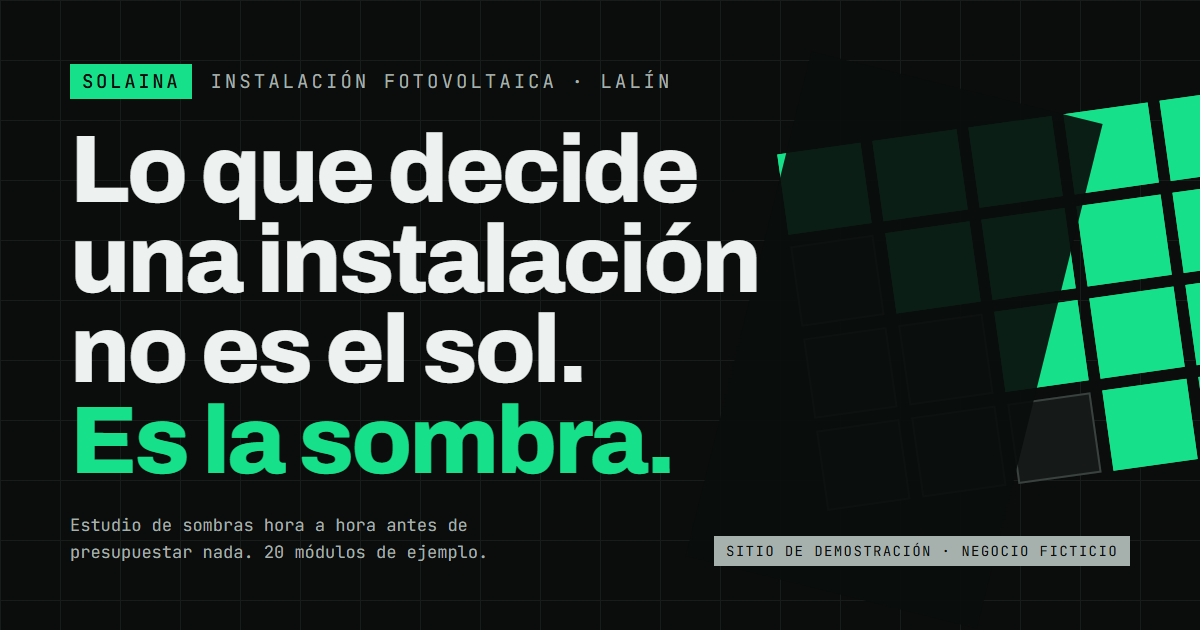
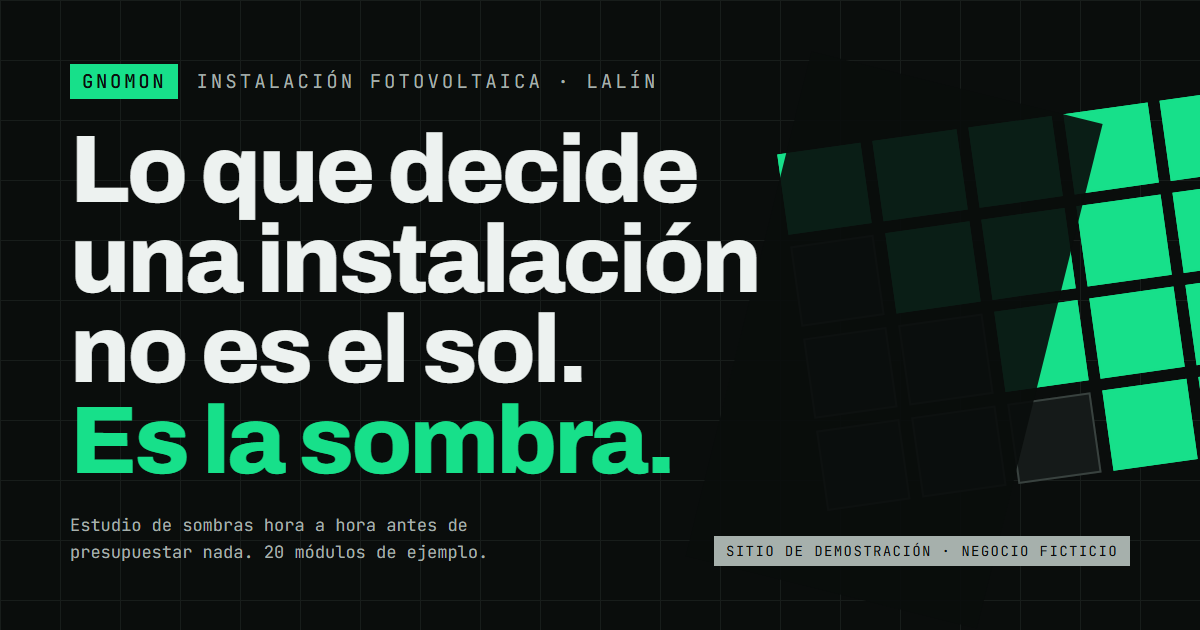
El negocio ficticio pasa a llamarse GNOMON: SOLAINA chocaba con negocios reales
La comprobacion del nombre en la web devolvia un bar «A Solaina» en el propio
Lalin y varias sociedades registradas con ese nombre en Galicia. Aunque ninguna
sea instaladora, un nombre que existe en la misma localidad no cumple la regla
de negocio inequivocamente inventado.

GNOMON no aparece en el sector en Espana y ademas dice el concepto: el gnomon es
la varilla del reloj de sol, la pieza que da la sombra. Se anade esa nota en la
seccion 01.

De paso, el texto de la casilla del formulario va dentro de un <span>: en un
contenedor flex cada trozo de texto suelto es otro item y se le aplicaba el
gap, asi que se leia «aviso legal .».

axe-core: sigue sin violaciones.

Changed region(s): [[0.0617, 0.0905, 0.4625, 0.1508], [0.4933, 0.1206, 0.555, 0.1508]]

diff --git a/index.html b/index.html
@@ -1,7 +1,7 @@
 <!DOCTYPE html>
 <!--
   ============================================================================
-  SITIO DE DEMOSTRACIÓN. SOLAINA es una empresa de instalación fotovoltaica
+  SITIO DE DEMOSTRACIÓN. GNOMON es una empresa de instalación fotovoltaica
   FICTICIA. Nombre, dirección, teléfono, horarios, precios, casos de ejemplo y
   equipo son datos de muestra inventados para enseñar la plantilla. No
   corresponden a ninguna empresa real ni a ninguna instalación real.
@@ -12,12 +12,12 @@
 <head>
 <meta charset="utf-8">
 <meta name="viewport" content="width=device-width, initial-scale=1">
-<title>SOLAINA · Instaladores fotovoltaicos en Lalín (demo)</title>
+<title>GNOMON · Instaladores fotovoltaicos en Lalín (demo)</title>
 <meta name="description" content="Plantilla de demostración de una empresa de instalación fotovoltaica ficticia: estudio de sombras, equipos, papeles y casos de ejemplo. Todos los datos son de muestra.">
 <meta name="robots" content="noindex, nofollow">
 <meta name="theme-color" content="#0A0D0C">
 <meta property="og:type" content="website">
-<meta property="og:title" content="SOLAINA · Instaladores fotovoltaicos (sitio de demostración)">
+<meta property="og:title" content="GNOMON · Instaladores fotovoltaicos (sitio de demostración)">
 <meta property="og:description" content="Negocio ficticio. Lo que decide una instalación no es el sol: es la sombra.">
 <meta property="og:image" content="assets/og.png">
 <meta property="og:image:width" content="1200">
@@ -34,7 +34,7 @@
 {
   "@context": "https://schema.org",
   "@type": "HomeAndConstructionBusiness",
-  "name": "SOLAINA",
+  "name": "GNOMON",
   "description": "Empresa de instalación fotovoltaica ficticia usada como plantilla de demostración.",
   "address": {
     "@type": "PostalAddress",
@@ -45,7 +45,7 @@
     "addressCountry": "ES"
   },
   "telephone": "+34986000000",
-  "email": "hola@solaina.example",
+  "email": "hola@gnomon.example",
   "priceRange": "€€",
   "openingHoursSpecification": [
     { "@type": "OpeningHoursSpecification", "dayOfWeek": ["Monday","Tuesday","Wednesday","Thursday","Friday"], "opens": "08:30", "closes": "18:30" }
@@ -60,9 +60,9 @@
 <div class="cursor" id="cursor" aria-hidden="true"><span class="cursor-punto"></span><span class="cursor-texto" id="cursor-texto"></span></div>
 
 <header class="cabecera" id="cabecera">
-  <a class="marca" href="#inicio" aria-label="SOLAINA, inicio">
+  <a class="marca" href="#inicio" aria-label="GNOMON, inicio">
     <img src="assets/logo.svg" width="52" height="52" alt="" class="marca-mark">
-    <span class="marca-texto">SOLAINA<em>instalación fotovoltaica · Lalín</em></span>
+    <span class="marca-texto">GNOMON<em>instalación fotovoltaica · Lalín</em></span>
   </a>
 
   <nav class="nav" id="nav" aria-label="Principal">
@@ -141,6 +141,8 @@
       <p class="parrafo">Este es el estudio que hacemos antes de dar un solo número: el sol recorre el día,
         la sombra de la chimenea y del árbol barre el tejado, y se apunta qué paneles quedan tapados y a
         qué hora. Baja y pasa el día.</p>
+      <p class="parrafo parrafo--nota">De ahí el nombre: el <b>gnomon</b> es la varilla de un reloj de sol,
+        la pieza que no da luz —da sombra— y sin la cual el reloj no marca nada.</p>
     </div>
 
     <div class="sombra-escena" id="sombra-escena">
@@ -397,7 +399,7 @@
         aparte si hacen falta.</p>
     </div>
     <table class="tabla">
-      <caption class="visual-oculto">Precios orientativos de muestra de la empresa ficticia SOLAINA</caption>
+      <caption class="visual-oculto">Precios orientativos de muestra de la empresa ficticia GNOMON</caption>
       <thead>
         <tr><th scope="col">Instalación</th><th scope="col">Qué incluye</th><th scope="col">Desde</th></tr>
       </thead>
@@ -490,7 +492,10 @@
           <label for="f-mensaje">Cuéntanos cómo es la casa</label>
           <textarea id="f-mensaje" name="mensaje" rows="4"></textarea>
         </div>
-        <label class="campo-check"><input type="checkbox" id="f-ok" name="ok" required> He leído el <a href="aviso-legal.html">aviso legal</a>.</label>
+        <!-- el texto va dentro de un <span>: en un contenedor flex, cada trozo de
+             texto suelto es un item más y se le aplica el `gap` (salía «legal .») -->
+        <label class="campo-check"><input type="checkbox" id="f-ok" name="ok" required>
+          <span>He leído el <a href="aviso-legal.html">aviso legal</a>.</span></label>
         <button class="boton boton--verde" type="submit" data-iman>Pedir estudio</button>
         <p class="formulario-respuesta" id="formulario-respuesta" role="status"></p>
       </form>
@@ -499,7 +504,7 @@
         <dl>
           <div><dt>Nave y oficina</dt><dd>Rúa da Corredoira 44, nave 2<br>36500 Lalín · Pontevedra</dd></div>
           <div><dt>Teléfono</dt><dd><a href="tel:+34986000000">986 00 00 00</a><br><span class="muestra">Número de muestra: no funciona.</span></dd></div>
-          <div><dt>Correo</dt><dd><a href="mailto:hola@solaina.example">hola@solaina.example</a></dd></div>
+          <div><dt>Correo</dt><dd><a href="mailto:hola@gnomon.example">hola@gnomon.example</a></dd></div>
           <div><dt>Horario</dt><dd>Lunes a viernes 08:30 – 18:30</dd></div>
           <div><dt>Zona</dt><dd>Deza, Tabeirós y Terra de Montes</dd></div>
         </dl>
@@ -520,7 +525,7 @@
   <div class="pie-rejilla">
     <div class="pie-marca">
       <img src="assets/logo.svg" width="52" height="52" alt="">
-      <p>SOLAINA<br><span>Instalación fotovoltaica · Lalín</span></p>
+      <p>GNOMON<br><span>Instalación fotovoltaica · Lalín</span></p>
     </div>
     <div>
       <h2>Dónde</h2>
@@ -528,7 +533,7 @@
     </div>
     <div>
       <h2>Contacto</h2>
-      <p><a href="tel:+34986000000">986 00 00 00</a><br><a href="mailto:hola@solaina.example">hola@solaina.example</a></p>
+      <p><a href="tel:+34986000000">986 00 00 00</a><br><a href="mailto:hola@gnomon.example">hola@gnomon.example</a></p>
     </div>
     <div>
       <h2>Horario</h2>
@@ -539,7 +544,7 @@
       <p><a href="aviso-legal.html">Aviso legal y privacidad</a><br><a href="#inicio">Volver arriba</a></p>
     </div>
   </div>
-  <p class="sello">Sitio de demostración. SOLAINA es un negocio ficticio; los datos, precios, casos de
+  <p class="sello">Sitio de demostración. GNOMON es un negocio ficticio; los datos, precios, casos de
     ejemplo y cifras de producción son de muestra y no corresponden a ninguna empresa ni instalación real.
     <strong>Ninguna cifra de esta página es una promesa de ahorro.</strong></p>
 </footer>

diff --git a/aviso-legal.html b/aviso-legal.html
@@ -1,11 +1,11 @@
 <!DOCTYPE html>
-<!-- SITIO DE DEMOSTRACIÓN. SOLAINA es una empresa ficticia; todos los datos son de muestra. -->
+<!-- SITIO DE DEMOSTRACIÓN. GNOMON es una empresa ficticia; todos los datos son de muestra. -->
 <html lang="es">
 <head>
 <meta charset="utf-8">
 <meta name="viewport" content="width=device-width, initial-scale=1">
-<title>Aviso legal y privacidad · SOLAINA (demo)</title>
-<meta name="description" content="Aviso legal y política de privacidad de la plantilla de demostración SOLAINA. Negocio ficticio.">
+<title>Aviso legal y privacidad · GNOMON (demo)</title>
+<meta name="description" content="Aviso legal y política de privacidad de la plantilla de demostración GNOMON. Negocio ficticio.">
 <meta name="robots" content="noindex, nofollow">
 <meta name="theme-color" content="#0A0D0C">
 <link rel="icon" href="assets/favicon.svg" type="image/svg+xml">
@@ -20,9 +20,9 @@
 <a class="salto" href="#contenido">Saltar al contenido</a>
 
 <header class="cabecera" id="cabecera">
-  <a class="marca" href="index.html" aria-label="SOLAINA, inicio">
+  <a class="marca" href="index.html" aria-label="GNOMON, inicio">
     <img src="assets/logo.svg" width="52" height="52" alt="" class="marca-mark">
-    <span class="marca-texto">SOLAINA<em>instalación fotovoltaica · Lalín</em></span>
+    <span class="marca-texto">GNOMON<em>instalación fotovoltaica · Lalín</em></span>
   </a>
   <nav class="nav" id="nav" aria-label="Principal">
     <ul class="nav-lista">
@@ -42,7 +42,7 @@
   <div class="texto-legal">
     <h1>Aviso legal y privacidad</h1>
 
-    <p class="parrafo"><strong>Antes de nada: esto es una plantilla de demostración.</strong> SOLAINA no
+    <p class="parrafo"><strong>Antes de nada: esto es una plantilla de demostración.</strong> GNOMON no
       existe. El nombre, el CIF, la dirección de la nave, el teléfono, el correo, los horarios, los
       precios, los tres casos de ejemplo, las opiniones y las personas del equipo están inventados para
       enseñar cómo quedaría el sitio de una empresa instaladora real. Ninguna cifra de producción o de
@@ -50,12 +50,12 @@
 
     <h2>1. Titular del sitio</h2>
     <ul>
-      <li><strong>Denominación:</strong> SOLAINA Instalacións Fotovoltaicas, S.L. <em>(ficticia)</em></li>
+      <li><strong>Denominación:</strong> GNOMON Instalacións Fotovoltaicas, S.L. <em>(ficticia)</em></li>
       <li><strong>CIF:</strong> B00000000 <em>(de muestra, no válido)</em></li>
       <li><strong>Domicilio:</strong> Rúa da Corredoira 44, nave 2 · 36500 Lalín (Pontevedra)
         <em>(dirección inventada)</em></li>
       <li><strong>Teléfono:</strong> 986 00 00 00 <em>(número de muestra; no está en servicio)</em></li>
-      <li><strong>Correo:</strong> hola@solaina.example <em>(el dominio .example está reservado
+      <li><strong>Correo:</strong> hola@gnomon.example <em>(el dominio .example está reservado
         precisamente para ejemplos: no recibe correo)</em></li>
       <li><strong>Registro e inscripción como empresa instaladora:</strong> los datos registrales que
         llevaría aquí una empresa real no se han inventado a propósito, porque serían verificables.</li>
@@ -81,7 +81,7 @@
     <h2>4. Privacidad</h2>
     <p>Este sitio <strong>no tiene analítica, ni píxeles, ni cookies de terceros</strong>. Lo único que se
       guarda es una marca en el almacenamiento local de tu navegador
-      (<code>solaina-cookies</code>) para no volver a enseñarte el aviso. Se queda en tu equipo, no viaja
+      (<code>gnomon-cookies</code>) para no volver a enseñarte el aviso. Se queda en tu equipo, no viaja
       a ningún servidor y la borras vaciando los datos del sitio.</p>
     <p>El formulario de la sección «Visita» <strong>no envía nada</strong>: no hay servidor detrás. Al
       pulsar «Pedir estudio» solo se escribe una respuesta en la propia página. Aun así, no escribas datos
@@ -119,7 +119,7 @@
   <div class="pie-rejilla">
     <div class="pie-marca">
       <img src="assets/logo.svg" width="52" height="52" alt="">
-      <p>SOLAINA<br><span>Instalación fotovoltaica · Lalín</span></p>
+      <p>GNOMON<br><span>Instalación fotovoltaica · Lalín</span></p>
     </div>
     <div>
       <h2>Dónde</h2>
@@ -127,7 +127,7 @@
     </div>
     <div>
       <h2>Contacto</h2>
-      <p><a href="tel:+34986000000">986 00 00 00</a><br><a href="mailto:hola@solaina.example">hola@solaina.example</a></p>
+      <p><a href="tel:+34986000000">986 00 00 00</a><br><a href="mailto:hola@gnomon.example">hola@gnomon.example</a></p>
     </div>
     <div>
       <h2>Horario</h2>
@@ -138,7 +138,7 @@
       <p><a href="aviso-legal.html">Aviso legal y privacidad</a><br><a href="index.html">Volver al inicio</a></p>
     </div>
   </div>
-  <p class="sello">Sitio de demostración. SOLAINA es un negocio ficticio; los datos, precios, casos de
+  <p class="sello">Sitio de demostración. GNOMON es un negocio ficticio; los datos, precios, casos de
     ejemplo y cifras de producción son de muestra y no corresponden a ninguna empresa ni instalación real.
     <strong>Ninguna cifra de esta página es una promesa de ahorro.</strong></p>
 </footer>

diff --git a/404.html b/404.html
@@ -1,11 +1,11 @@
 <!DOCTYPE html>
-<!-- SITIO DE DEMOSTRACIÓN. SOLAINA es una empresa ficticia; todos los datos son de muestra. -->
+<!-- SITIO DE DEMOSTRACIÓN. GNOMON es una empresa ficticia; todos los datos son de muestra. -->
 <html lang="es">
 <head>
 <meta charset="utf-8">
 <meta name="viewport" content="width=device-width, initial-scale=1">
-<title>Esta página está en sombra · SOLAINA (demo)</title>
-<meta name="description" content="Página no encontrada en la plantilla de demostración SOLAINA.">
+<title>Esta página está en sombra · GNOMON (demo)</title>
+<meta name="description" content="Página no encontrada en la plantilla de demostración GNOMON.">
 <meta name="robots" content="noindex, nofollow">
 <meta name="theme-color" content="#0A0D0C">
 <link rel="icon" href="assets/favicon.svg" type="image/svg+xml">
@@ -20,9 +20,9 @@
 <a class="salto" href="#contenido">Saltar al contenido</a>
 
 <header class="cabecera" id="cabecera">
-  <a class="marca" href="index.html" aria-label="SOLAINA, inicio">
+  <a class="marca" href="index.html" aria-label="GNOMON, inicio">
     <img src="assets/logo.svg" width="52" height="52" alt="" class="marca-mark">
-    <span class="marca-texto">SOLAINA<em>instalación fotovoltaica · Lalín</em></span>
+    <span class="marca-texto">GNOMON<em>instalación fotovoltaica · Lalín</em></span>
   </a>
   <nav class="nav" id="nav" aria-label="Principal">
     <ul class="nav-lista">
@@ -56,7 +56,7 @@
   <div class="pie-rejilla">
     <div class="pie-marca">
       <img src="assets/logo.svg" width="52" height="52" alt="">
-      <p>SOLAINA<br><span>Instalación fotovoltaica · Lalín</span></p>
+      <p>GNOMON<br><span>Instalación fotovoltaica · Lalín</span></p>
     </div>
     <div>
       <h2>Dónde</h2>
@@ -64,7 +64,7 @@
     </div>
     <div>
       <h2>Contacto</h2>
-      <p><a href="tel:+34986000000">986 00 00 00</a><br><a href="mailto:hola@solaina.example">hola@solaina.example</a></p>
+      <p><a href="tel:+34986000000">986 00 00 00</a><br><a href="mailto:hola@gnomon.example">hola@gnomon.example</a></p>
     </div>
     <div>
       <h2>Horario</h2>
@@ -75,7 +75,7 @@
       <p><a href="aviso-legal.html">Aviso legal y privacidad</a><br><a href="index.html">Volver al inicio</a></p>
     </div>
   </div>
-  <p class="sello">Sitio de demostración. SOLAINA es un negocio ficticio; los datos, precios, casos de
+  <p class="sello">Sitio de demostración. GNOMON es un negocio ficticio; los datos, precios, casos de
     ejemplo y cifras de producción son de muestra y no corresponden a ninguna empresa ni instalación real.
     <strong>Ninguna cifra de esta página es una promesa de ahorro.</strong></p>
 </footer>

diff --git a/og-fuente.html b/og-fuente.html
@@ -2,7 +2,7 @@
 <html lang="es">
 <head>
 <meta charset="utf-8">
-<title>og SOLAINA</title>
+<title>og GNOMON</title>
 <link rel="preconnect" href="https://fonts.googleapis.com">
 <link rel="preconnect" href="https://fonts.gstatic.com" crossorigin>
 <link rel="stylesheet" href="https://fonts.googleapis.com/css2?family=Archivo:wght@400;600;800&family=JetBrains+Mono:wght@400;500&display=swap">
@@ -47,7 +47,7 @@
   </div>
 
   <div class="caja">
-    <div class="alto"><b>SOLAINA</b> <span>Instalación fotovoltaica · Lalín</span></div>
+    <div class="alto"><b>GNOMON</b> <span>Instalación fotovoltaica · Lalín</span></div>
     <h1>Lo que decide<br>una instalación<br>no es el sol.<br><em>Es la sombra.</em></h1>
     <div class="bajo">
       <p>Estudio de sombras hora a hora antes de<br>presupuestar nada. 20 módulos de ejemplo.</p>

diff --git a/css/style.css b/css/style.css
@@ -1,5 +1,5 @@
 /* ==========================================================================
-   SOLAINA — plantilla de demostración (negocio ficticio)
+   GNOMON — plantilla de demostración (negocio ficticio)
    Concepto «Sombra»: lo que decide una instalación fotovoltaica no es el sol,
    es la sombra. Nada de promesas de ahorro.
    ========================================================================== */
@@ -431,3 +431,7 @@ html.has-motion .cursor{display:flex;}
   html.has-motion [data-aparecer]{opacity:1;transform:none;}
   .cursor{display:none !important;}
 }
+
+/* nota al pie de un bloque de texto: el mismo humo, un cuerpo menor */
+.parrafo--nota{font-size:.92rem;color:var(--humo);border-left:2px solid var(--verde);padding-left:14px;}
+.parrafo--nota b{color:var(--hueso);font-weight:600;}

diff --git a/js/main.js b/js/main.js
@@ -1,5 +1,5 @@
 /* ==========================================================================
-   SOLAINA — plantilla de demostración (negocio ficticio)
+   GNOMON — plantilla de demostración (negocio ficticio)
    Concepto «Sombra». GSAP, ScrollTrigger y Lenis por CDN; sin ellos la página
    se lee entera y el tejado se ve al mediodía, que es su estado legible.
    ========================================================================== */
@@ -46,7 +46,7 @@
   (function cookies() {
     var banner = $("#cookie-banner"), ok = $("#cookie-ok");
     if (!banner || !ok) { return; }
-    var CLAVE = "solaina-cookies";
+    var CLAVE = "gnomon-cookies";
     var aceptado = false;
     try { aceptado = localStorage.getItem(CLAVE) === "1"; } catch (e) {}
     if (!aceptado) { banner.hidden = false; }

diff --git a/README.md b/README.md
@@ -1,6 +1,6 @@
-# SOLAINA · plantilla para instaladores fotovoltaicos
+# GNOMON · plantilla para instaladores fotovoltaicos
 
-> **Sitio de demostración.** SOLAINA es una empresa **ficticia**. El nombre, el
+> **Sitio de demostración.** GNOMON es una empresa **ficticia**. El nombre, el
 > CIF, la dirección de la nave, el teléfono, el correo, los horarios, los precios,
 > los tres casos de ejemplo, las opiniones y las tres personas del equipo están
 > **inventados** para enseñar la plantilla. No corresponden a ninguna empresa ni a
@@ -126,7 +126,7 @@ recuento se escriben igual, y los contadores muestran su cifra final.
 
 1. **Los datos ficticios, todos fuera.** Están concentrados en `index.html`
    (cabecera, secciones 03, 05, 06 y 08, pie y `ld+json`), en `aviso-legal.html` y
-   en `manifest.json`. Busca `SOLAINA`, `986 00 00 00`, `solaina.example`,
+   en `manifest.json`. Busca `GNOMON`, `986 00 00 00`, `gnomon.example`,
    `Corredoira` y `B00000000`.
 2. **Quita los sellos de demostración**: el comentario del principio de cada HTML,
    el `<meta name="robots" content="noindex, nofollow">`, el `<p class="sello">`

diff --git a/CREDITOS.md b/CREDITOS.md
@@ -1,6 +1,6 @@
 # Créditos y procedencia de los recursos
 
-**Sitio de demostración. SOLAINA es un negocio ficticio.**
+**Sitio de demostración. GNOMON es un negocio ficticio.**
 
 ## Fotografías: ninguna
 
